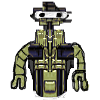
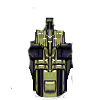
maps and robo 7 graphic update

Changed region(s): [[0.3, 0.0, 0.72, 0.33], [0.69, 0.42, 0.9, 0.93], [0.09, 0.39, 0.33, 0.9]]

diff --git a/src/main/java/inf112/skeleton/app/view/BoardRenderer.java b/src/main/java/inf112/skeleton/app/view/BoardRenderer.java
@@ -88,11 +88,11 @@ public class BoardRenderer extends OrthogonalTiledMapRenderer {
         int i = 0;
         // associate robots with cells for the robot layer of the map
         for (Robot robot : gameModel.getRobots()) {
-            robotCell = new Cell().setTile(new StaticTiledMapTile(robotFacingNorth));
+            robotCell = new Cell().setTile(new StaticTiledMapTile(robot8FacingNorth));
 
             i++;
             if (i ==2){
-                robotCell = new Cell().setTile(new StaticTiledMapTile(robot2FacingNorth));
+                robotCell = new Cell().setTile(new StaticTiledMapTile(robot6FacingNorth));
             }
             if (i == 3){
                 robotCell = new Cell().setTile(new StaticTiledMapTile(robot3FacingNorth));
@@ -104,13 +104,13 @@ public class BoardRenderer extends OrthogonalTiledMapRenderer {
                 robotCell = new Cell().setTile(new StaticTiledMapTile(robot5FacingNorth));
             }
             if (i==6){
-                robotCell = new Cell().setTile(new StaticTiledMapTile(robot6FacingNorth));
+                robotCell = new Cell().setTile(new StaticTiledMapTile(robotFacingNorth));
             }
             if (i==7){
                 robotCell = new Cell().setTile(new StaticTiledMapTile(robot7FacingNorth));
             }
             if (i==8){
-                robotCell = new Cell().setTile(new StaticTiledMapTile(robot8FacingNorth));
+                robotCell = new Cell().setTile(new StaticTiledMapTile(robot2FacingNorth));
             }
             robotsToCellsHashMap.put(robot, robotCell);
         }

diff --git a/src/main/java/inf112/skeleton/app/model/GameModel.java b/src/main/java/inf112/skeleton/app/model/GameModel.java
@@ -57,7 +57,7 @@ public class GameModel {
             endOfPhaseSteps.add(new LinkedList<>());
         }
         // legacy code
-        String[] names = {"Blue", "Yellow", "Red", "Green", "Orange", "Pink", "Golden", "Black" };
+        String[] names = {"Black", "Pink", "Red", "Green", "Orange", "Blue", "Golden", "Yellow" };
         for (int i = 0; i < names.length && i < robots.size(); i++) {
             robots.get(i).setName(names[i]);
         }
